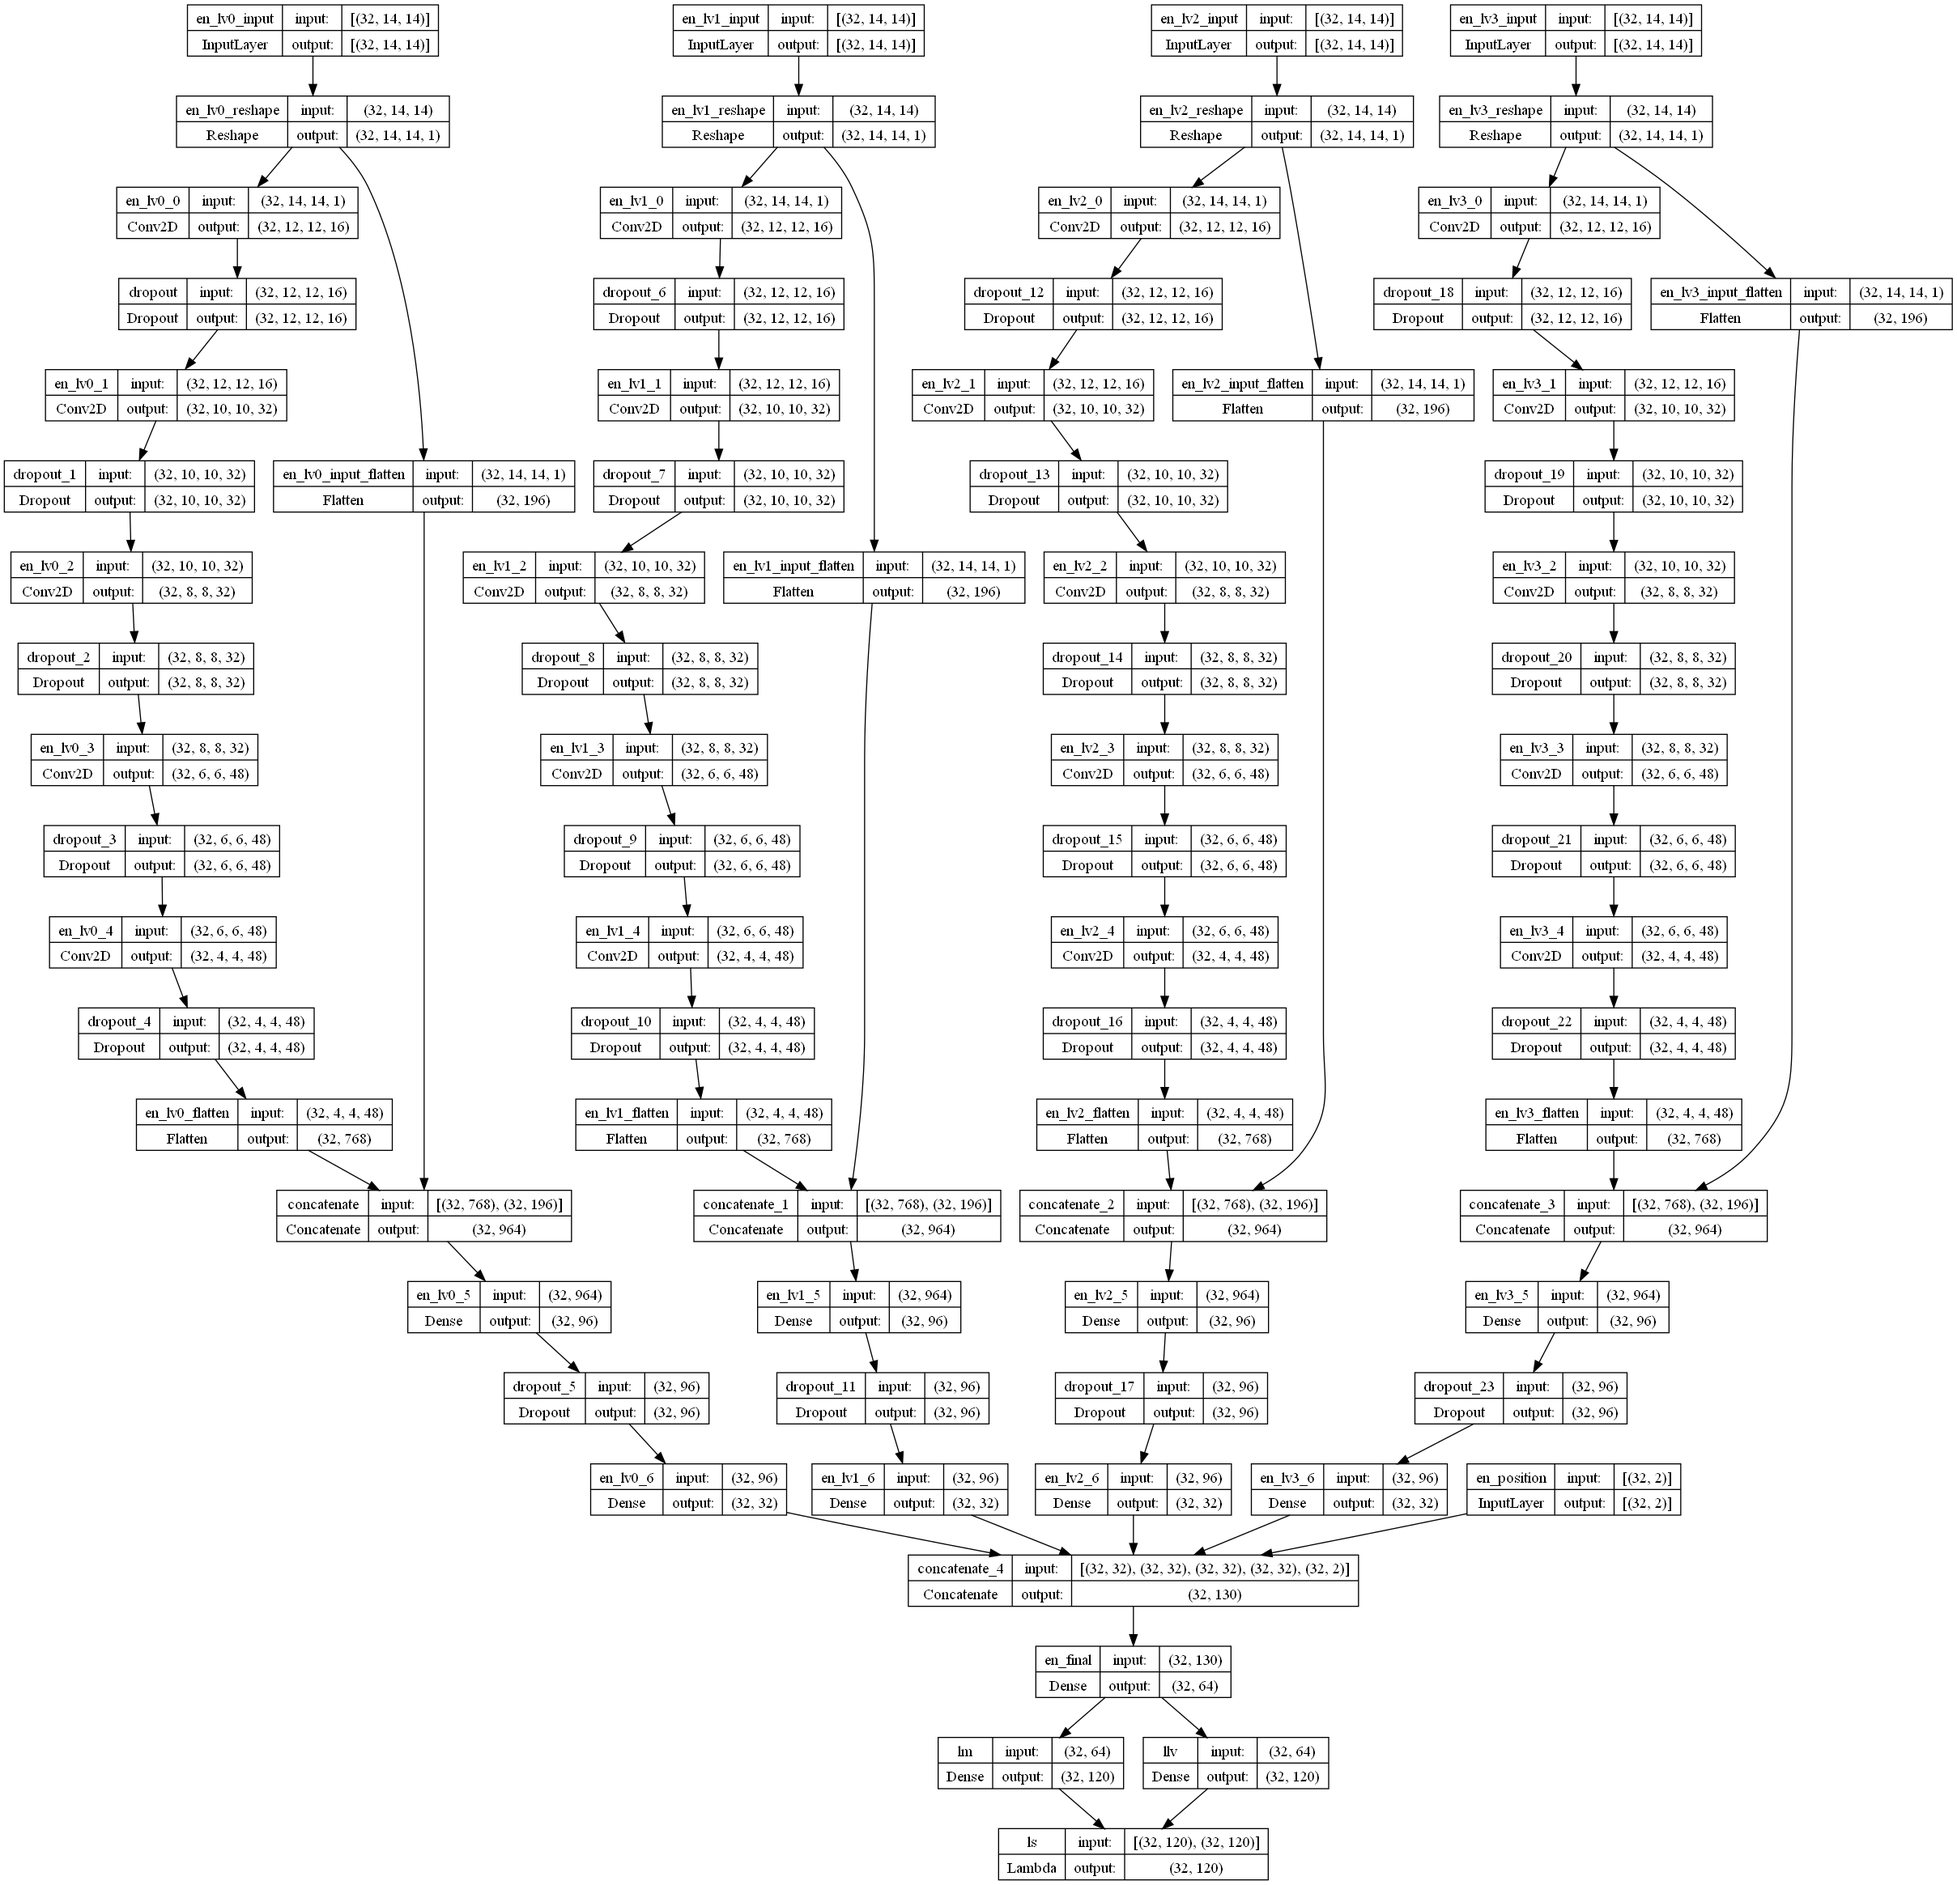
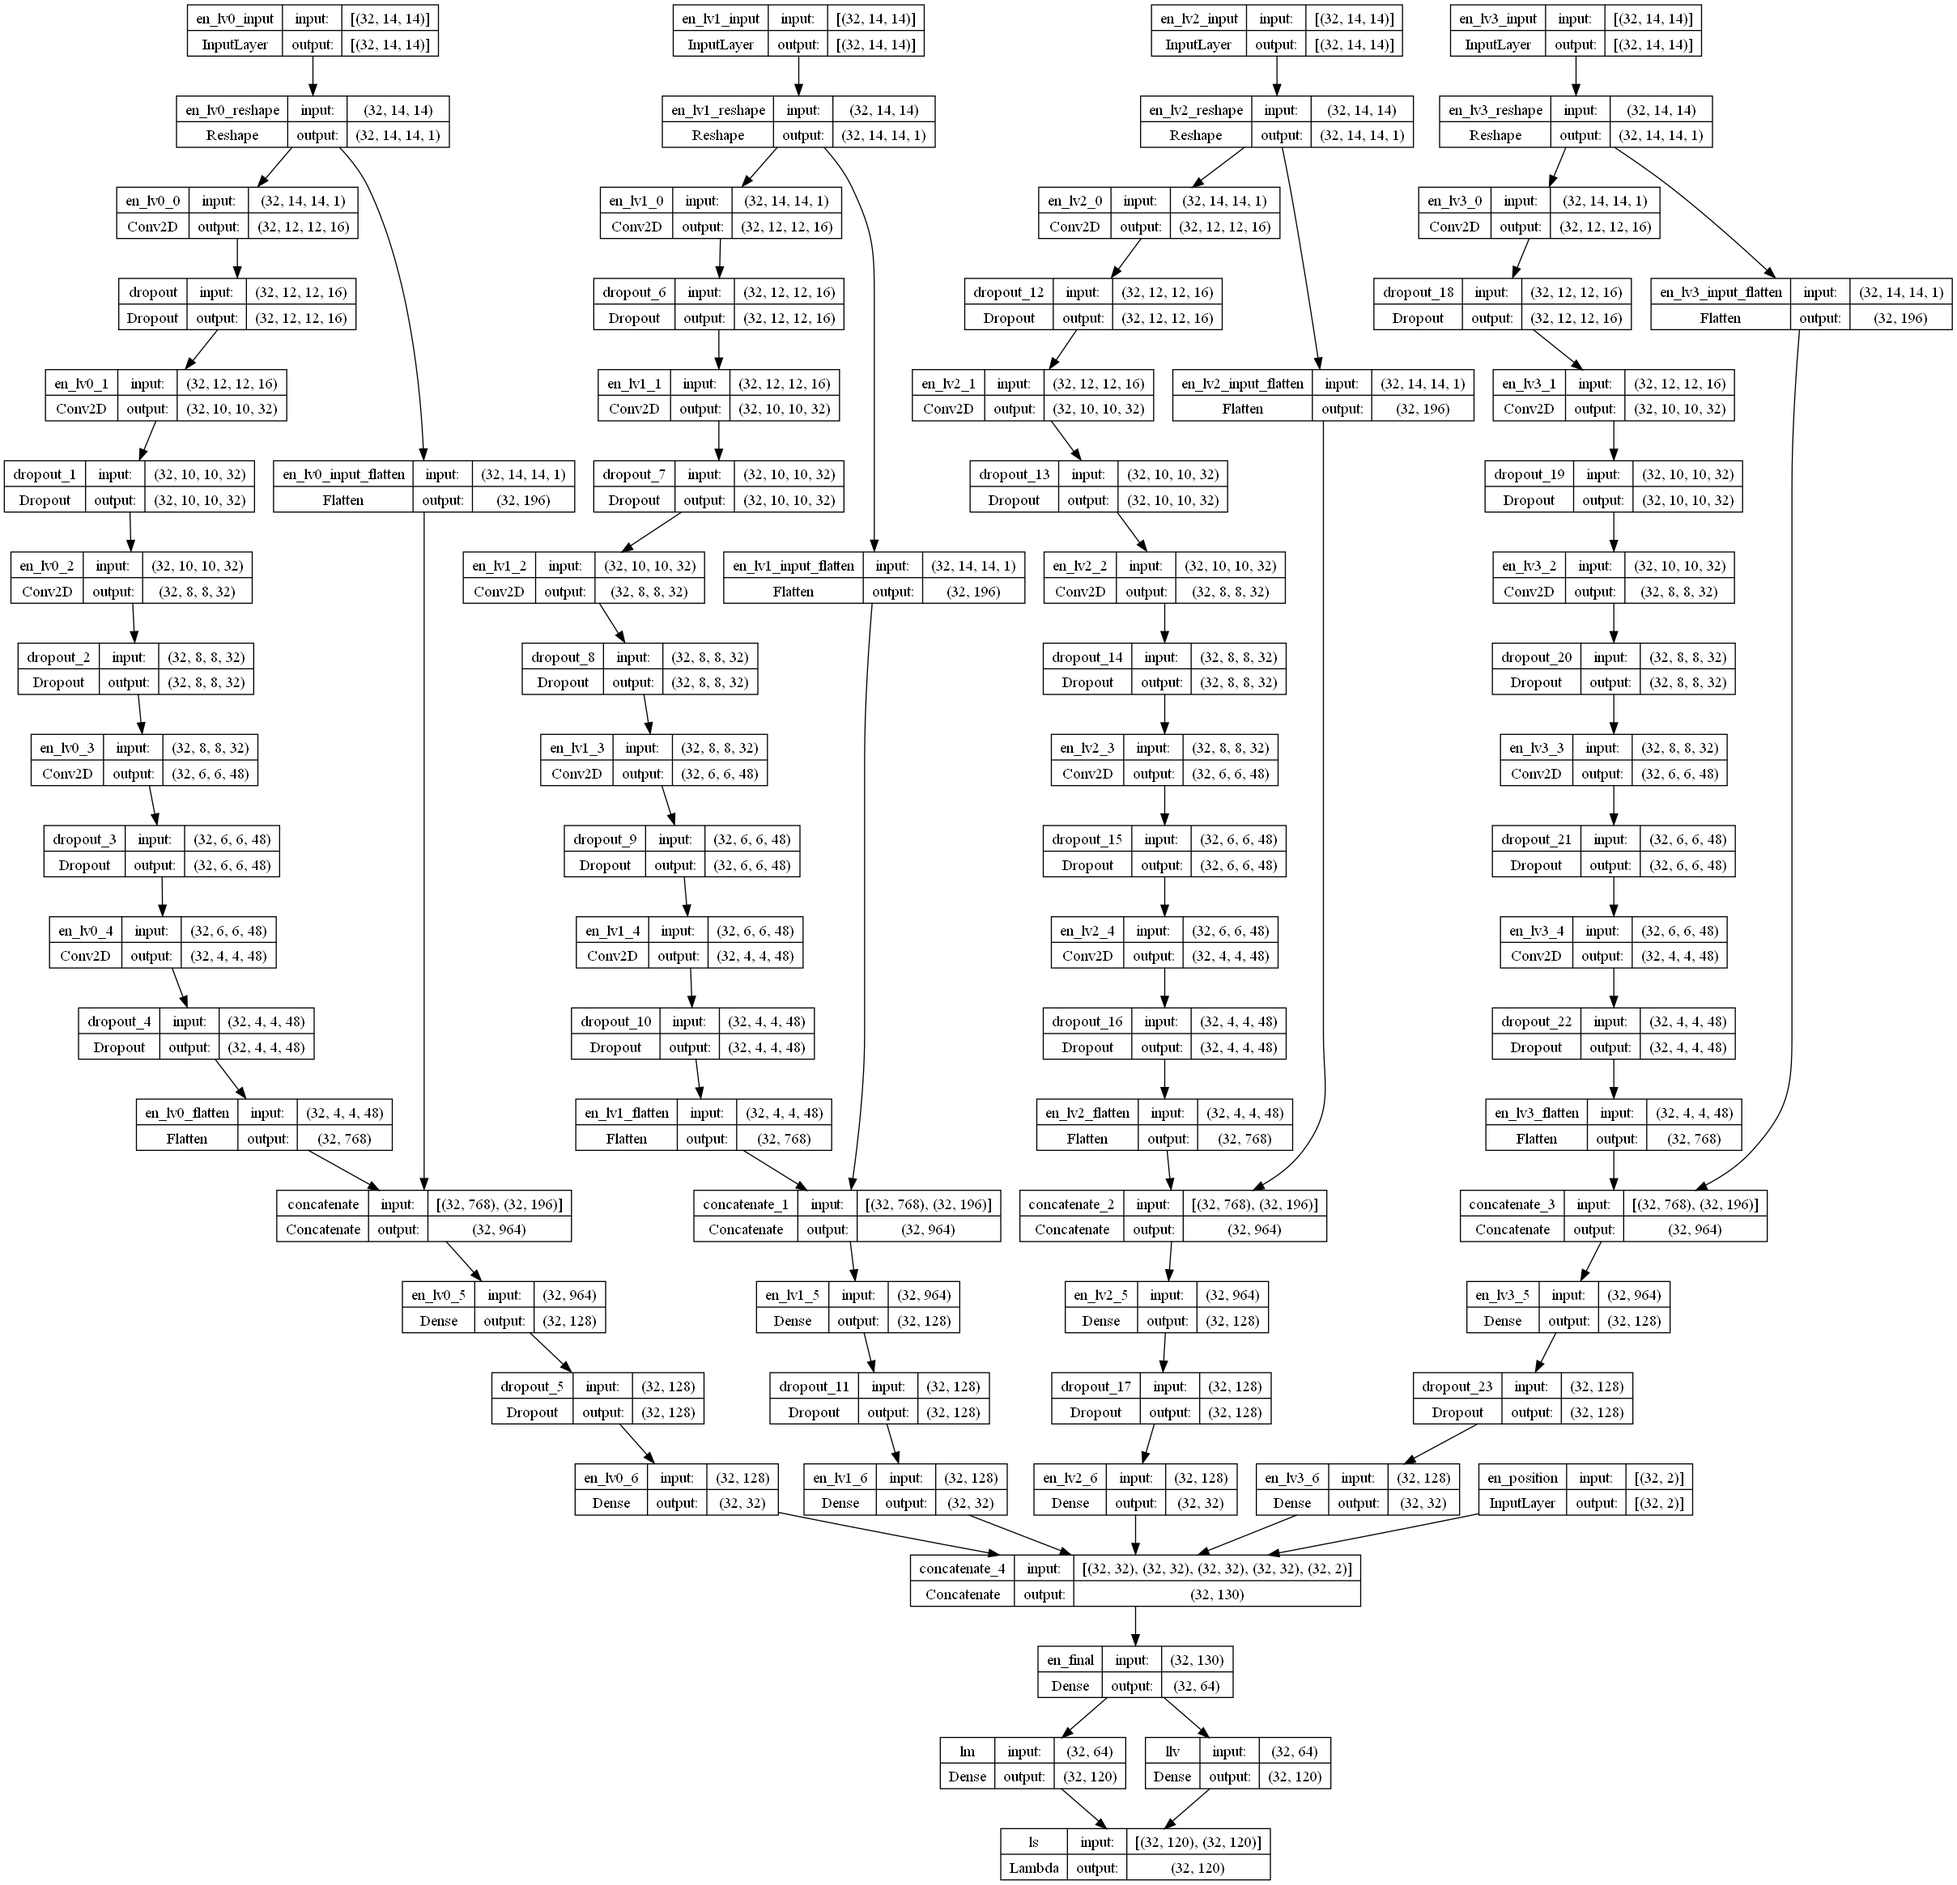
test: layer after concat 96->128, MSE Loss weight 2.0

diff --git a/Image Processing/Project 003. 흑백 이미지 컬러화 (생성형 AI 적용)/train.py b/Image Processing/Project 003. 흑백 이미지 컬러화 (생성형 AI 적용)/train.py
@@ -20,7 +20,7 @@ TOTAL_PIXELS = INPUT_IMG_SIZE * INPUT_IMG_SIZE
 
 HIDDEN_DIMS = 120
 BATCH_SIZE = 32
-MSE_LOSS_WEIGHT_CONSTANT = 4.0
+MSE_LOSS_WEIGHT_CONSTANT = 2.0
 
 NUM_CLASSES = 16
 
@@ -65,7 +65,7 @@ class Main_Model:
         self.encoder_lvl0_3 = layers.Conv2D(48, (3, 3), activation=silu, kernel_regularizer=L2, name='en_lv0_3')
         self.encoder_lvl0_4 = layers.Conv2D(48, (3, 3), activation=silu, kernel_regularizer=L2, name='en_lv0_4')
 
-        self.encoder_lvl0_5 = layers.Dense(96, activation=silu, name='en_lv0_5')
+        self.encoder_lvl0_5 = layers.Dense(128, activation=silu, name='en_lv0_5')
         self.encoder_lvl0_6 = layers.Dense(32, activation=silu, name='en_lv0_6')
         
         # level 1 : 주변 56 x 56 영역 (상하좌우 +24 pixels)
@@ -75,7 +75,7 @@ class Main_Model:
         self.encoder_lvl1_3 = layers.Conv2D(48, (3, 3), activation=silu, kernel_regularizer=L2, name='en_lv1_3')
         self.encoder_lvl1_4 = layers.Conv2D(48, (3, 3), activation=silu, kernel_regularizer=L2, name='en_lv1_4')
 
-        self.encoder_lvl1_5 = layers.Dense(96, activation=silu, name='en_lv1_5')
+        self.encoder_lvl1_5 = layers.Dense(128, activation=silu, name='en_lv1_5')
         self.encoder_lvl1_6 = layers.Dense(32, activation=silu, name='en_lv1_6')
 
         # level 2 : 주변 28 x 28 영역 (상하좌우 +10 pixels)
@@ -85,7 +85,7 @@ class Main_Model:
         self.encoder_lvl2_3 = layers.Conv2D(48, (3, 3), activation=silu, kernel_regularizer=L2, name='en_lv2_3')
         self.encoder_lvl2_4 = layers.Conv2D(48, (3, 3), activation=silu, kernel_regularizer=L2, name='en_lv2_4')
 
-        self.encoder_lvl2_5 = layers.Dense(96, activation=silu, name='en_lv2_5')
+        self.encoder_lvl2_5 = layers.Dense(128, activation=silu, name='en_lv2_5')
         self.encoder_lvl2_6 = layers.Dense(32, activation=silu, name='en_lv2_6')
 
         # level 3 : 주변 14 x 14 영역 (상하좌우 +3 pixels)
@@ -95,7 +95,7 @@ class Main_Model:
         self.encoder_lvl3_3 = layers.Conv2D(48, (3, 3), activation=silu, kernel_regularizer=L2, name='en_lv3_3')
         self.encoder_lvl3_4 = layers.Conv2D(48, (3, 3), activation=silu, kernel_regularizer=L2, name='en_lv3_4')
 
-        self.encoder_lvl3_5 = layers.Dense(96, activation=silu, name='en_lv3_5')
+        self.encoder_lvl3_5 = layers.Dense(128, activation=silu, name='en_lv3_5')
         self.encoder_lvl3_6 = layers.Dense(32, activation=silu, name='en_lv3_6')
         
         self.encoder_final_dense = layers.Dense(64, activation=silu, name='en_final')
@@ -108,7 +108,7 @@ class Main_Model:
         self.decoder_lvl0_3 = layers.Conv2D(48, (3, 3), activation=silu, kernel_regularizer=L2, name='de_lv0_3')
         self.decoder_lvl0_4 = layers.Conv2D(48, (3, 3), activation=silu, kernel_regularizer=L2, name='de_lv0_4')
 
-        self.decoder_lvl0_5 = layers.Dense(96, activation=silu, name='de_lv0_5')
+        self.decoder_lvl0_5 = layers.Dense(128, activation=silu, name='de_lv0_5')
         self.decoder_lvl0_6 = layers.Dense(32, activation=silu, name='de_lv0_6')
         
         # level 1 : 주변 56 x 56 영역 (상하좌우 +24 pixels)
@@ -118,7 +118,7 @@ class Main_Model:
         self.decoder_lvl1_3 = layers.Conv2D(48, (3, 3), activation=silu, kernel_regularizer=L2, name='de_lv1_3')
         self.decoder_lvl1_4 = layers.Conv2D(48, (3, 3), activation=silu, kernel_regularizer=L2, name='de_lv1_4')
 
-        self.decoder_lvl1_5 = layers.Dense(96, activation=silu, name='de_lv1_5')
+        self.decoder_lvl1_5 = layers.Dense(128, activation=silu, name='de_lv1_5')
         self.decoder_lvl1_6 = layers.Dense(32, activation=silu, name='de_lv1_6')
 
         # level 2 : 주변 28 x 28 영역 (상하좌우 +10 pixels)
@@ -128,7 +128,7 @@ class Main_Model:
         self.decoder_lvl2_3 = layers.Conv2D(48, (3, 3), activation=silu, kernel_regularizer=L2, name='de_lv2_3')
         self.decoder_lvl2_4 = layers.Conv2D(48, (3, 3), activation=silu, kernel_regularizer=L2, name='de_lv2_4')
 
-        self.decoder_lvl2_5 = layers.Dense(96, activation=silu, name='de_lv2_5')
+        self.decoder_lvl2_5 = layers.Dense(128, activation=silu, name='de_lv2_5')
         self.decoder_lvl2_6 = layers.Dense(32, activation=silu, name='de_lv2_6')
 
         # level 3 : 주변 14 x 14 영역 (상하좌우 +3 pixels)
@@ -138,7 +138,7 @@ class Main_Model:
         self.decoder_lvl3_3 = layers.Conv2D(48, (3, 3), activation=silu, kernel_regularizer=L2, name='de_lv3_3')
         self.decoder_lvl3_4 = layers.Conv2D(48, (3, 3), activation=silu, kernel_regularizer=L2, name='de_lv3_4')
 
-        self.decoder_lvl3_5 = layers.Dense(96, activation=silu, name='de_lv3_5')
+        self.decoder_lvl3_5 = layers.Dense(128, activation=silu, name='de_lv3_5')
         self.decoder_lvl3_6 = layers.Dense(32, activation=silu, name='de_lv3_6')
 
         # latent vector (120) 과 결합하여 (120 + 32 + 32 + 32 + 32 = 248) 으로 만들기!

diff --git a/Image Processing/Project 003. 흑백 이미지 컬러화 (생성형 AI 적용)/experiment_log.md b/Image Processing/Project 003. 흑백 이미지 컬러화 (생성형 AI 적용)/experiment_log.md
@@ -1,3 +1,54 @@
+# Model 4 : concatenate 직후 layer 뉴런 96 -> 128개 및 MSE Loss 가중치 2.0 적용 (2024.03.28 0시)
+* 처음 **100장** 의 이미지만 이용하여 학습
+* epoch **5회**
+* MSE Loss 가중치 : **2.0**
+
+## 직전 모델 (Model 3) 대비 변동 사항
+* MSE Loss 가중치를 **4.0 -> 2.0** 으로 조정
+* skip connection 직후에 이어지는 concatenate layer 의 직후의 layer 뉴런 개수를 **96개 -> 128개** 로 증가
+  * 해당 레이어: ```{en,de}_lv{0,1,2,3}_5``` (총 8개)
+
+## 학습 로그
+* 최종 Loss : **0.0732**
+
+```
+2024-03-27 23:52:02.976041: I tensorflow/compiler/mlir/mlir_graph_optimization_pass.cc:354] MLIR V1 optimization pass is not enabled
+19584/19584 [==============================] - 108s 6ms/sample - loss: 0.2842
+Epoch 2/5
+19584/19584 [==============================] - 114s 6ms/sample - loss: 0.0987
+Epoch 3/5
+19584/19584 [==============================] - 119s 6ms/sample - loss: 0.0921
+Epoch 4/5
+19584/19584 [==============================] - 121s 6ms/sample - loss: 0.0830
+Epoch 5/5
+19584/19584 [==============================] - 137s 7ms/sample - loss: 0.0732
+```
+
+## 모델 구조
+* Encoder 파라미터 개수 **729,392 개** (Model 2, 3 대비 21.2% 증가)
+* Decoder 파라미터 개수 **729,698 개** (Model 2, 3 대비 21.2% 증가)
+* 전체 모델 파라미터 개수 **1,459,090 개** (Model 2, 3 대비 21.2% 증가)
+
+**Encoder 구조**
+
+![encoder](https://github.com/WannaBeSuperteur/AI-study/assets/32893014/fbd441c1-4a09-4234-92bf-320380452a83)
+
+**Decoder 구조**
+
+![decoder](https://github.com/WannaBeSuperteur/AI-study/assets/32893014/cd18bd13-ffb6-4001-b07c-d7b6dc982037)
+
+**VAE 기반 모델의 전체 구조**
+
+![vae](https://github.com/WannaBeSuperteur/AI-study/assets/32893014/a42fc7f6-e28d-46ae-87c3-3560214503a8)
+
+## 테스트 결과 및 총평
+
+![image](https://github.com/WannaBeSuperteur/AI-study/assets/32893014/899338cb-cd3c-4511-a258-7e830a7b0d16)
+
+![image](https://github.com/WannaBeSuperteur/AI-study/assets/32893014/db8934d3-48f5-4efb-8ac1-0924d35df372)
+
+Model 2와 Model 3의 중간 정도의 성능을 보인다.
+
 # Model 3 : skip connection 추가 적용 및 MSE Loss 가중치 4.0 적용 (2024.03.27 22시)
 * 처음 **100장** 의 이미지만 이용하여 학습
 * epoch **5회**
